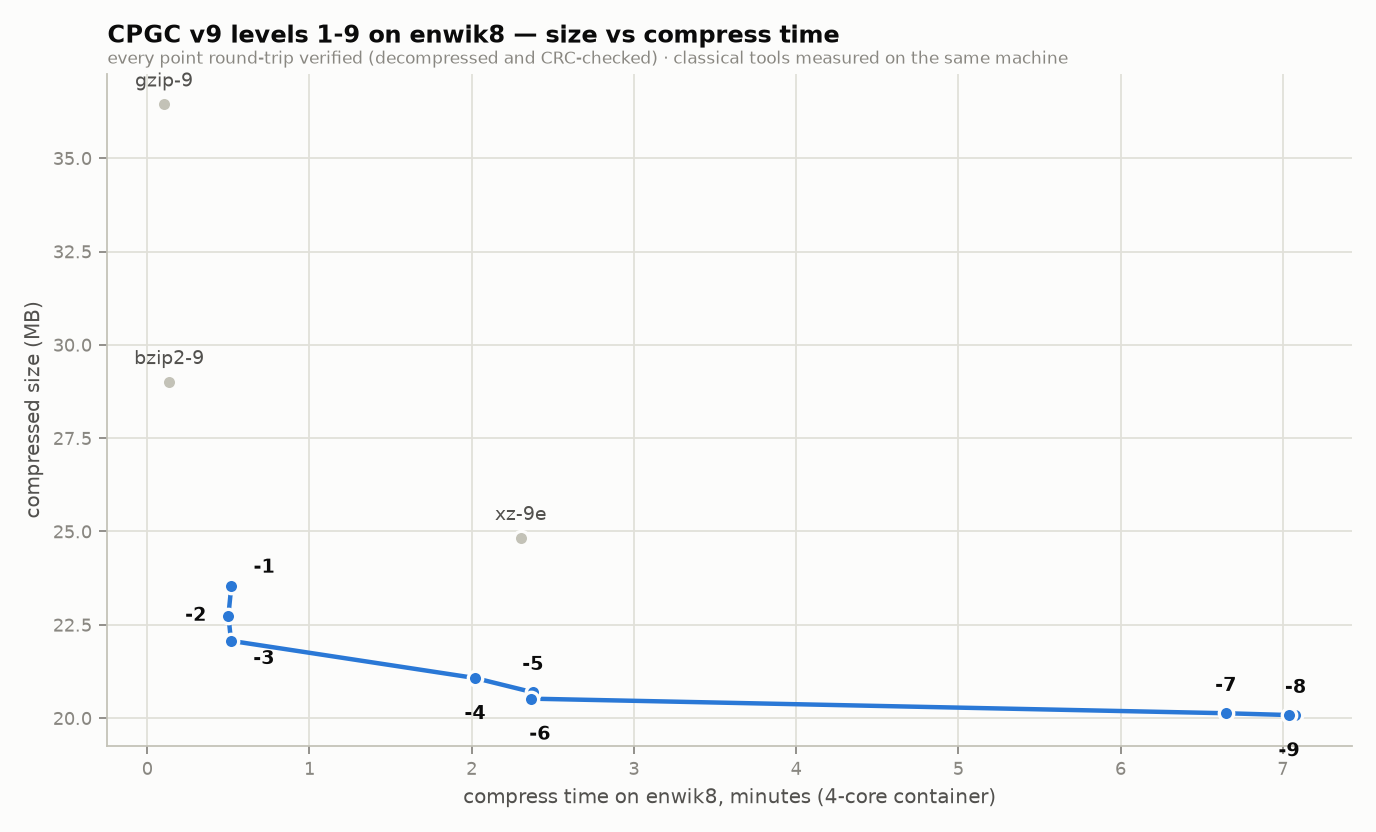
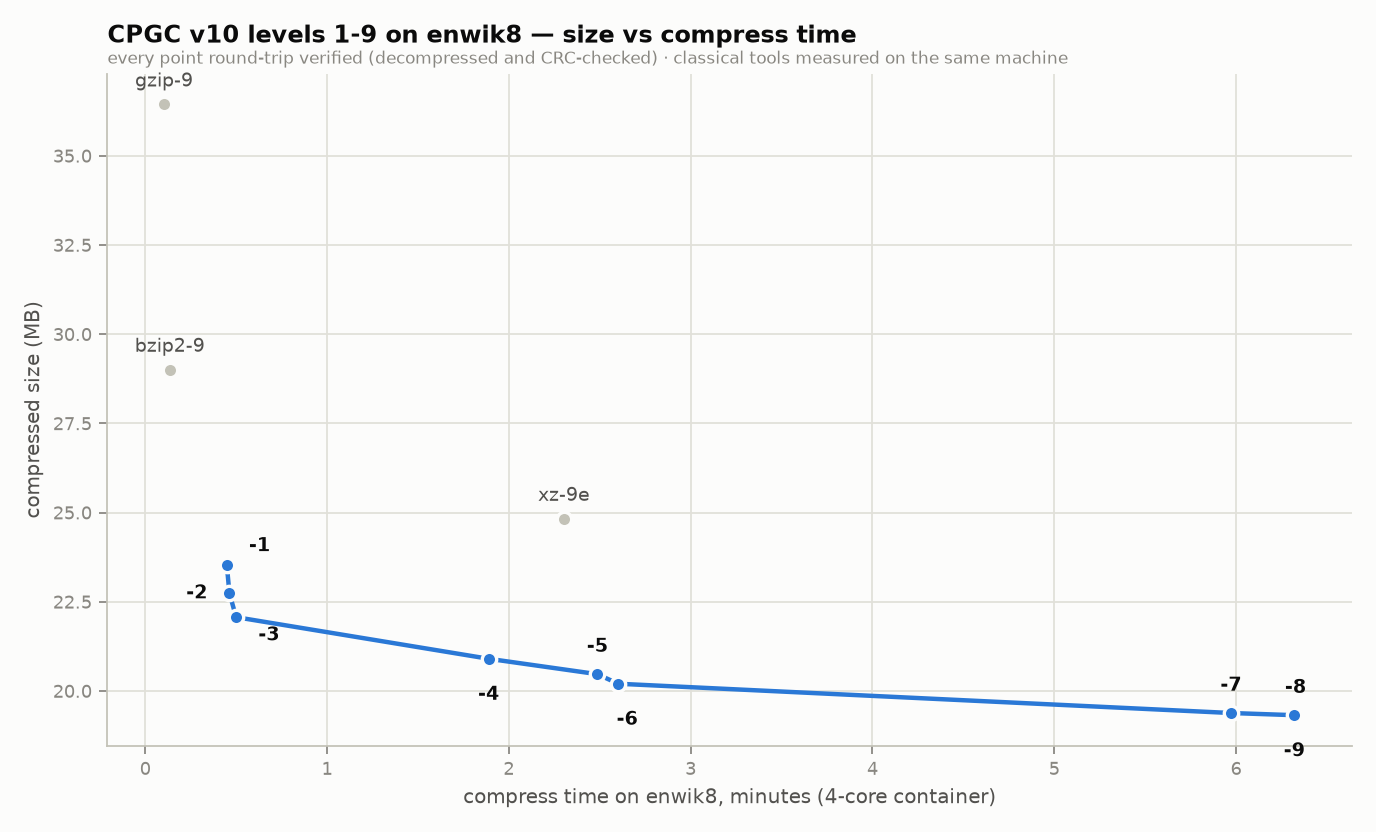
Refresh enwik8 benchmarks for the v10 engine
Re-run the full enwik8 level sweep with the v10 context-mixing engine
(all nine levels compressed and round-trip CRC-verified on this
four-core container) and regenerate results.csv and both charts.

Level 9 drops from 20,078,377 bytes (1.606 bpc) to 19,320,647 bytes
(1.546 bpc), a 3.8% reduction; the full-model levels 4-9 all improve,
with level 7 down 3.7%. Update the README headline, per-level table,
and chart labels (CPGC v10; v9 as the old baseline). The enwik9 section
is refreshed separately once its longer sweep completes.

Claude-Session: https://claude.ai/code/session_012eHpCeH6DZ7CNZ9Yp9UYKc

diff --git a/benchmarks/make_charts.py b/benchmarks/make_charts.py
@@ -77,13 +77,13 @@ LTCB = [
     ("paq8px", 16_046_995),
     ("cmix v21", 14_623_723),
 ]
-V8_BASELINE = ("CPGC v8 (old)", 21_008_701)
+V9_BASELINE = ("CPGC v9 (old)", 20_078_377)
 
 # ---------------------------------------------------------------------------
-# Chart 1: compressed size, CPGC v9 vs the field (horizontal bars, sorted)
+# Chart 1: compressed size, CPGC v10 vs the field (horizontal bars, sorted)
 # ---------------------------------------------------------------------------
-entries = [("CPGC v9 -9 (this repo)", best[1], "cpgc")]
-entries.append((V8_BASELINE[0], V8_BASELINE[1], "old"))
+entries = [("CPGC v10 -9 (this repo)", best[1], "cpgc")]
+entries.append((V9_BASELINE[0], V9_BASELINE[1], "old"))
 for name, size in LTCB:
     kind = "research" if name in ("zpaq -m5", "paq8px", "cmix v21") else "classic"
     entries.append((name, size, kind))
@@ -179,7 +179,7 @@ ax.grid(color=GRID, linewidth=0.8, zorder=0)
 ax.spines[["top", "right"]].set_visible(False)
 ax.tick_params(labelsize=8)
 ax.set_title(
-    "CPGC v9 levels 1-9 on enwik8 — size vs compress time",
+    "CPGC v10 levels 1-9 on enwik8 — size vs compress time",
     fontsize=11, fontweight="bold", loc="left", pad=14, color=PRIMARY,
 )
 ax.text(
@@ -224,7 +224,7 @@ if os.path.exists(e9_csv):
 
     best9 = e9["cpgc-9"]
     assert best9["verified"] == "1", "enwik9 -9 failed round-trip verification!"
-    entries9 = [("CPGC v9 -9 (this repo)", int(best9["comp_bytes"]), "cpgc")]
+    entries9 = [("CPGC v10 -9 (this repo)", int(best9["comp_bytes"]), "cpgc")]
     entries9 += LTCB9
     entries9.sort(key=lambda e: e[1], reverse=True)
 

diff --git a/README.md b/README.md
@@ -152,13 +152,13 @@ and test actions for `.cpgc` and `.cpas` archives.
 
 [enwik8](https://mattmahoney.net/dc/textdata.html) is the first 100,000,000
 bytes of the English Wikipedia dump and a standard text-compression benchmark.
-Every CPGC v9 archive below was decompressed and CRC-verified.
+Every CPGC v10 archive below was decompressed and CRC-verified.
 
 ![enwik8 compressed size vs other tools](benchmarks/enwik8_sizes.png)
 
-At level 9, CPGC produces **20,078,377 bytes (1.606 bits/byte)**. That is 19%
-smaller than xz `-9e`, 21% smaller than zstd `-22`, 22% smaller than brotli
-`-q11`, 5% smaller than 7-Zip's PPMd, and 4.4% smaller than CPGC v8. Research
+At level 9, CPGC produces **19,320,647 bytes (1.546 bits/byte)**. That is 22%
+smaller than xz `-9e`, 24% smaller than zstd `-22`, 25% smaller than brotli
+`-q11`, 9% smaller than 7-Zip's PPMd, and 3.8% smaller than CPGC v9. Research
 compressors such as zpaq, PAQ8, cmix, and nncp still achieve better ratios, at
 substantially higher runtime cost.
 
@@ -168,19 +168,19 @@ substantially higher runtime cost.
 
 | Level | Compressed size | Bits/byte | Compress | Decompress | Round-trip |
 |---:|---:|---:|---:|---:|:---|
-| 1 | 23,537,940 B | 1.883 | 31 s | 27 s | Verified |
-| 2 | 22,741,152 B | 1.819 | 30 s | 27 s | Verified |
-| 3 | 22,070,944 B | 1.766 | 31 s | 30 s | Verified |
-| 4 | 21,075,392 B | 1.686 | 121 s | 110 s | Verified |
-| 5 | 20,693,974 B | 1.656 | 143 s | 144 s | Verified |
-| 6 | 20,522,500 B | 1.642 | 142 s | 144 s | Verified |
-| 7 | 20,131,832 B | 1.611 | 399 s | 385 s | Verified |
-| 8 | 20,078,377 B | 1.606 | 425 s | 418 s | Verified |
-| 9 | **20,078,377 B** | **1.606** | 422 s | 440 s | Verified |
+| 1 | 23,544,702 B | 1.884 | 27 s | 26 s | Verified |
+| 2 | 22,735,441 B | 1.819 | 28 s | 25 s | Verified |
+| 3 | 22,068,868 B | 1.766 | 30 s | 29 s | Verified |
+| 4 | 20,903,387 B | 1.672 | 113 s | 115 s | Verified |
+| 5 | 20,471,793 B | 1.638 | 149 s | 155 s | Verified |
+| 6 | 20,203,405 B | 1.616 | 156 s | 173 s | Verified |
+| 7 | 19,382,850 B | 1.551 | 358 s | 357 s | Verified |
+| 8 | 19,320,647 B | 1.546 | 380 s | 380 s | Verified |
+| 9 | **19,320,647 B** | **1.546** | 379 s | 376 s | Verified |
 
 These measurements used a four-core container. Levels 8 and 9 currently
 produce identical archives. Turbo level 1 compressed faster than xz `-9e` in
-this environment (31 seconds versus 138 seconds) while producing a smaller
+this environment (27 seconds versus 138 seconds) while producing a smaller
 archive.
 
 ### enwik9
@@ -214,7 +214,7 @@ Full measurements and chart-generation scripts are in [`benchmarks/`](benchmarks
 ## Project status
 
 CPGC is experimental and its archive format is still evolving. The current
-decoder accepts format version 9 archives; retain a matching binary for older
+decoder accepts format version 10 archives; retain a matching binary for older
 archives. For important data, keep an independent copy and use `cpgc verify`
 after compression.
 